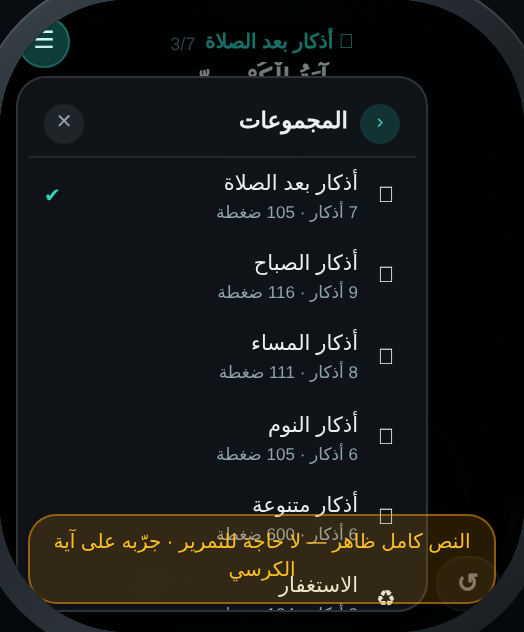
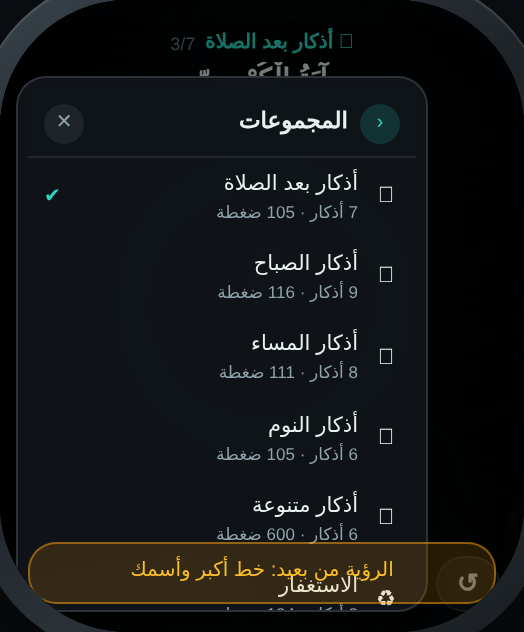
☰ زر واحد للقائمة (أسفل الشاشة) + إصلاح أسماء شاشات سير اللقطات + لقطات محدَّثة

Changed region(s): [[0.0305, 0.8117, 0.9466, 0.932], [0.0305, 0.0301, 0.1527, 0.1203]]

diff --git a/simulator.html b/simulator.html
@@ -86,6 +86,7 @@
   .wbtn.prom{background:#0f3f3c;border-color:#1c6b63;color:#c8f7f0}
   .wbtn.icon{flex:0 0 auto;width:32px;font-size:13px;padding:6px 0;line-height:1}
   .wbtn.icon.on{background:#0f3f3c;border-color:#1c6b63;color:#c8f7f0;box-shadow:0 0 10px rgba(45,212,191,.35)}
+  .wbtn.on{background:#0f3f3c;border-color:#1c6b63;color:#c8f7f0}   /* ☰ القائمة وهي مفتوحة */
 
   /* قائمة المجموعات */
   .setslist{flex:1;overflow-y:auto;display:flex;flex-direction:column;gap:6px;padding-inline-end:2px}
@@ -215,19 +216,18 @@
   .screen.bg-on .bgdim{opacity:1}
   /* ═══════════════════════════════════════════════════════════════════
      🔒 تثبيت الطبقات فوق الخلفيات — دون لمس `position`!
-     كان هنا سطر `.view,.aod,...,.mbtn,.promptbar{position:relative}` يُبطِل
+     كان هنا سطر `.view,.aod,...,.promptbar{position:relative}` يُبطِل
      `position:absolute` لكل هذه العناصر ⇒ الشاشة لا تملأ الساعة، والتذييل
      والأزرار والعدّاد تتبع ارتفاع النص: تختفي مع آية الكرسي وترتفع مع
      الذكر القصير. أُعيد تثبيت موضع كل عنصر هنا كأولوية أخيرة.
      ═══════════════════════════════════════════════════════════════════ */
   .view,.aod,.flash,.done,.mscrim{position:absolute;inset:0}
-  .menu{position:absolute;left:8px;top:38px}
-  .mbtn{position:absolute;top:8px;left:9px}
+  .menu{position:absolute;left:8px;top:38px}   /* تظهر فوق الشاشة عند فتحها من زر الأسفل */
   .promptbar{position:relative;margin:0 0 6px}   /* ⬆ أعلى القراءة — داخل التدفق */
   .badge{position:absolute;top:6px;right:6px;bottom:auto;left:auto}
   .view{z-index:2}
   .view.read-mode .vhead{padding-inline-start:56px}   /* مكان العدّاد في الزاوية اليمنى */
-  .menu,.promptbar,.mbtn,.badge{z-index:12}
+  .menu,.promptbar,.badge{z-index:12}
   .aod,.flash{z-index:9}
   .done{z-index:14}
 
@@ -238,12 +238,7 @@
[2 lines of base64/hex data omitted]
 
-  /* ═════════ القائمة المنسدلة ☰ (الزاوية العلوية اليسرى) ═════════ */
-  .mbtn{position:absolute;top:8px;left:9px;z-index:11;width:26px;height:26px;border-radius:50%;
-    background:rgba(20,26,31,.85);border:1px solid rgba(255,255,255,.14);
-    display:flex;align-items:center;justify-content:center;font-size:12px;color:#dfe7ec;cursor:pointer}
-  .mbtn:active{background:rgba(45,212,191,.25)}
-  .mbtn.on{background:#0f3f3c;border-color:#1c6b63;color:#c8f7f0}
+  /* ═════════ القائمة ☰ — تُفتح من زر «☰ القائمة» أسفل الشاشة ═════════ */
 
   .mscrim{position:absolute;inset:0;background:rgba(0,0,0,.45);z-index:9;display:none}
   .mscrim.on{display:block}
@@ -401,7 +396,6 @@
               </div>
             </div><!-- /badge -->
 
-            <div class="mbtn" id="menuBtn" title="القائمة والإعدادات">☰</div>
             <div class="mscrim" id="mscrim"></div>
             <div class="menu" id="menu"></div>
 
@@ -557,7 +551,7 @@
         <div class="act" id="actPrompt">📜 تشغيل التلقين<br><span class="k">تمرير تلقائي</span></div>
         <div class="act" id="actDist">👁 رؤية من بعيد<br><span class="k">خط أكبر وأسمك</span></div>
         <div class="act" id="actTry">🧪 جرّب التلقين<br><span class="k">على آية الكرسي</span></div>
-        <div class="act" id="actMenu">☰ القائمة المنسدلة<br><span class="k">كل الإعدادات</span></div>
+        <div class="act" id="actMenu">☰ القائمة (أسفل الشاشة)<br><span class="k">كل الإعدادات</span></div>
         <div class="act" id="actBg">🖼 خلفية المجموعة<br><span class="k">تفعيل · إيقاف</span></div>
         <div class="act" id="actWidgetCfg">🧩 إعدادات الودجت<br><span class="k">النمط · الزر · الاسم</span></div>
       </div>
@@ -766,7 +760,7 @@ const el = {
   rdTitle:$('rdTitle'), rdText:$('rdText'), rdScroll:$('rdScroll'), badge:$('badge'),
   bProg:$('bProg'), bNum:$('bNum'), bTarget:$('bTarget'),
   ringLayout:$('ringLayout'), readLayout:$('readLayout'), posTag:$('posTag'),
-  menu:$('menu'), mscrim:$('mscrim'), menuBtn:$('menuBtn'), screen2:$('screen'),
+  menu:$('menu'), mscrim:$('mscrim'), btnMenu:$('btnMenu'), screen2:$('screen'),
   promptBar:$('promptBar'), pbPlay:$('pbPlay'), pbProg:$('pbProg'), pbLabel:$('pbLabel')
 };
 const set  = () => SETS[S.si];
@@ -1170,7 +1164,7 @@ function toggleDist(){
 }
 
 /* ═══════════════════════════════════════════════════════════
-   ☰ القائمة المنسدلة — كل الخيارات والإعدادات وإعدادات الودجت
+   ☰ القائمة — كل الخيارات والإعدادات وإعدادات الودجت (تُفتح من زر أسفل الشاشة)
    زر واحد في الزاوية العلوية اليسرى · صفوف مبنيّة من مصفوفة واحدة
    ═══════════════════════════════════════════════════════════ */
 const FSL = ['صغير','متوسط','كبير','ضخم'];
@@ -1401,7 +1395,7 @@ function menuAct(action){
 function openMenu(page){
   S.menu = true; S.page = page || 'main';
   el.menu.classList.add('on'); el.mscrim.classList.add('on');
-  el.menuBtn.classList.add('on');
+  el.btnMenu.classList.add('on');
   renderMenu();
   applyLayout();                       // يخفي الشريط والعدّاد تحت القائمة
   logEvent('☰ فُتحت القائمة' + (page && page!=='main' ? ' — '+(page==='sets'?'المجموعات':'إعدادات الودجت') : ''));
@@ -1409,7 +1403,7 @@ function openMenu(page){
 function closeMenu(){
   S.menu = false;
   el.menu.classList.remove('on'); el.mscrim.classList.remove('on');
-  el.menuBtn.classList.remove('on');
+  el.btnMenu.classList.remove('on');
   applyLayout();                       // يعيد الشريط والعدّاد بعد إغلاق القائمة
 }
 function toggleMenu(){ S.menu ? closeMenu() : openMenu('main'); }
@@ -1537,7 +1531,6 @@ bind('stackPlus', ()=>{ if (S.aod){ toast('ارفع رسغك أولًا'); retur
 bind('pbPlay',  togglePause);
 bind('pbSpeed', cycleWpm);
 bind('pbDist',  toggleDist);
-bind('menuBtn', toggleMenu);
 bind('btnMenu', ()=> openMenu('main'));
 bind('btnMotion', simulateMotion);      // ✋ محاكاة نكزة رسغ (وضع العدّ بالحركة)
 bind('btnCrown',  crownTick);           // 🎡 محاكاة نقرة تاج (وضع العدّ بالتاج)
@@ -1601,7 +1594,7 @@ logEvent('🌙 فتح التطبيق — الجلسة الممتدة نشطة');
 logEvent('اختر مجموعة من «المجموعات»، أو ابدأ الإيماءة بمفتاح المسافة');
 logEvent('جرّب وضع القراءة 📖 — نص الذكر كاملًا وعدّاد صغير في الزاوية (مفتاح F)', 'ok');
 logEvent('والتلقين 📜 — تمرير تلقائي بوتيرة قراءة (مفتاح T) · الرؤية من بعيد 👁 (مفتاح D)', 'ok');
-logEvent('☰ القائمة المنسدلة في الزاوية العلوية اليسرى — كل الإعدادات والمجموعات وإعدادات الودجت (مفتاح M)', 'ok');
+logEvent('☰ القائمة من زر «القائمة» أسفل الشاشة — كل الإعدادات والمجموعات وإعدادات الودجت (مفتاح M)', 'ok');
 logEvent('🖼 خلفية خافتة متناسقة لكل مجموعة — بدّلها من القائمة ← العرض', 'ok');
 renderSets(); render(); applyLayout(); updatePromptUI(); renderMenu();
 </script>

diff --git a/CounterView.swift b/CounterView.swift
@@ -18,7 +18,7 @@ struct CounterView: View {
     /// شاشة الترحيب: تظهر مرّة واحدة، ويمكن إعادتها من القائمة
     @AppStorage(SharedKeys.onboarded) private var onboarded = false
     @State private var showOnboarding = false
-    @State private var showPanel = false        // ☰ القائمة المنسدلة في الزاوية اليسرى
+    @State private var showPanel = false        // ☰ القائمة (زرها في صف الأدوات أسفل)
     @State private var showFullText = false
 
     @Environment(\.isLuminanceReduced) private var luminanceReduced
@@ -87,7 +87,7 @@ struct CounterView: View {
                     .animation(.easeInOut(duration: 0.2), value: model.toastMessage)
                 }
 
-                // ☰ القائمة المنسدلة — غير معطّلة لأي تفاعل في الأعلى
+                // ☰ القائمة (زرها أسفل) — طبقة فوق الشاشة لا تعطّل تفاعل الأعلى
                 if showPanel {
                     OptionsPanel(model: model, session: session) {
                         withAnimation(.easeInOut(duration: 0.15)) { showPanel = false }
@@ -106,17 +106,6 @@ struct CounterView: View {
             .animation(.easeInOut(duration: 0.25), value: model.nightMode)
             .toolbar {
                 if !luminanceReduced && model.summary == nil {
-                    // ☰ في الزاوية العلوية اليسرى
-                    // (في RTL يكون .topBarTrailing هو اليسار فعليًا)
-                    ToolbarItem(placement: .topBarTrailing) {
-                        Button { withAnimation(.easeOut(duration: 0.15)) { showPanel.toggle() } } label: {
-                            Image(systemName: "line.3.horizontal")
-                                .font(.system(size: 13, weight: .semibold))
-                                .foregroundStyle(showPanel ? .teal : .white)
-                        }
-                        .accessibilityLabel("القائمة والإعدادات")
-                    }
-
                     if model.readingMode {
                         // 👁 الرؤية من بعيد — في أعلى الشاشة مع التلقين (كان أسفلها)
                         ToolbarItem(placement: .topBarLeading) {
@@ -377,7 +366,7 @@ struct CounterView: View {
 
     /// صف الأزرار — متاح في الوضعين (العدّ والقراءة) حتى لا يبقى المستخدم بلا أدوات
     private var controlRow: some View {
-        HStack(spacing: 6) {
+        HStack(spacing: 4) {          // ٤ بدل ٦: بعد إضافة زر ☰ صار الصف خمسة أزرار
 
             // − تراجع (لتصحيح ضغطة خاطئة) — الوضع العادي فقط
             if !model.readingMode {
@@ -419,6 +408,16 @@ struct CounterView: View {
                 .buttonStyle(.bordered).tint(.gray)
                 .accessibilityLabel("بدء التلقين")
             }
+
+            // ☰ القائمة — زر واحد فقط، هنا في الأسفل (نُقل من الزاوية العلوية
+            //    حتى لا يكون للقائمة الواحدة زرّان). في RTL يظهر في أقصى اليسار.
+            Button { withAnimation(.easeOut(duration: 0.15)) { showPanel.toggle() } } label: {
+                Image(systemName: "line.3.horizontal")
+                    .font(.system(size: 11, weight: .semibold))
+            }
+            .buttonStyle(.bordered)
+            .tint(showPanel ? .teal : .gray)
+            .accessibilityLabel("القائمة والإعدادات")
         }
         .frame(height: 30)                       // 📐 ثابت: أيقونات مختلفة الأطوال
     }

diff --git a/OptionsPanel.swift b/OptionsPanel.swift
@@ -1,12 +1,12 @@
 //
 //  OptionsPanel.swift
-//  سبحة — القائمة المنسدلة في الزاوية العلوية اليسرى
+//  سبحة — القائمة المنسدلة ☰ (تُفتح من زر واحد أسفل الشاشة في صف الأدوات)
 //
 //  تحتوي كل شيء: العرض · التلقين · المجموعات · إعدادات الودجت · النظام.
 //  تظهر كطبقة فوق شاشة العدّ، بثلاث صفحات (local pages) بدل قوائم متداخلة.
 //
 //  ⚠ ملاحظة RTL: في واجهة عربية يكون `.topTrailing` هو **اليسار** فعليًا،
-//      ولذلك نثبّت القائمة والزر عليه — فيظهران في الزاوية العلوية اليسرى كما طلبت.
+//      ولذلك نثبّت القائمة_عليه، والزر في صف الأدوات أسفل الشاشة (زر واحد لا اثنان).
 //
 
 import SwiftUI

diff --git a/DebugShots.swift b/DebugShots.swift
@@ -24,8 +24,13 @@ import Foundation
 
 enum SabhaShot {
 
-    /// اسم الشاشة المطلوبة (يأتي من معامل الإطلاق `-sabhaScreen <اسم>`)
-    static var screen: String? { UserDefaults.standard.string(forKey: "sabhaScreen") }
+    /// اسم الشاشة المطلوبة (يأتي من معامل الإطلاق `-sabhaScreen <اسم>`).
+    /// نقبل «counter» و«01-counter» معًا: السير يسمّي الملف بالرقم، والمستخدم
+    /// قد يكتب الأمر يدويًا بلا رقم — فلا يهم أيّهما وصل.
+    static var screen: String? {
+        guard let raw = UserDefaults.standard.string(forKey: "sabhaScreen") else { return nil }
+        return raw.contains("-") ? String(raw.split(separator: "-").last ?? "") : raw
+    }
 
     static func isActive(_ name: String) -> Bool { screen == name }
 

diff --git a/tests/swift-api-check.py b/tests/swift-api-check.py
@@ -405,11 +405,50 @@ def check_debug_shots() -> bool:
     return ok
 
 
+def check_single_menu_button() -> bool:
+    """⑫ زر واحد للقائمة (لا ازدواج).
+
+    كان للقائمة زرّان: «☰» أعلى اليسار + «☰ القائمة» أسفل الشاشة — وهو تكرار
+    طلبه المستخدم إزالته. وُحّدا في زر واحد أسفل الشاشة (في التطبيق والمحاكي).
+    هذا الفحص يمنع عودة الازدواج في أي تعديل لاحق."""
+    print('⑫ زر واحد للقائمة (لا ازدواج)')
+    ok = True
+
+    cv = (ROOT / 'CounterView.swift').read_text(encoding='utf-8')
+    icons = len(re.findall(r'line\.3\.horizontal', cv))
+    if icons != 1:
+        ok = False
+        print(f'   ✘ CounterView.swift: عدد أيقونات ☰ = {icons} (المطلوب ١ فقط)')
+    # لا يجوز أن تحمل ☰ في شريط الأدوات العلوي (لكن يُسمح بعناصر أخرى هناك)
+    for m in re.finditer(r'ToolbarItem\(placement: \.topBarTrailing\)', cv):
+        if 'line.3.horizontal' in cv[m.start():m.start() + 400]:
+            ok = False
+            print('   ✘ CounterView.swift: يوجد ☰ في شريط الأدوات العلوي (يجب أن تكون أسفل الشاشة)')
+    # ويجب أن تكون داخل صف الأدوات السفلي
+    if cv.find('private var controlRow') == -1 or cv.find('line.3.horizontal') < cv.find('private var controlRow'):
+        ok = False
+        print('   ✘ CounterView.swift: ☰ ليست داخل صف الأدوات السفلي')
+
+    sim = (ROOT / 'simulator.html').read_text(encoding='utf-8')
+    if 'id="menuBtn"' in sim:
+        ok = False
+        print('   ✘ simulator.html: زر ☰ العلوي (menuBtn) ما زال موجودًا')
+    n_menu = sim.count('id="btnMenu"')
+    if n_menu != 1:
+        ok = False
+        print(f'   ✘ simulator.html: عدد أزرار «☰ القائمة» = {n_menu} (المطلوب ١)')
+
+    if ok:
+        print('   ✔ زر واحد فقط: «☰ القائمة» أسفل الشاشة — في التطبيق والمحاكي')
+    return ok
+
+
 if __name__ == '__main__':
     ok_all = (check_apis() and check_sources() and check_dhikr_parity()
               and check_model_members() and check_risky_apis()
               and check_assets_and_sources() and check_app_group()
-              and check_scheme_runnable() and check_debug_shots())
+              and check_scheme_runnable() and check_debug_shots()
+              and check_single_menu_button())
     print()
     print('📊 النتيجة:', '✔ كل الفحوصات سليمة' if ok_all else '❌ توجد مشاكل أعلاه')
     sys.exit(0 if ok_all else 1)

diff --git a/README.md b/README.md
@@ -35,7 +35,7 @@ TasbihWatch/
 ├── DebugShots.swift    ← 📸 مدخل لقطات المتجر (يعمل في نسخة التطوير فقط — يُحذف من نسخة المتجر)
 ├── CounterView.swift   ← شاشة العدّ + الإيماءة + الانتقال السلس + رسالة الإغلاق ⭐
 ├── ReadingView.swift   ← وضع القراءة: نص كامل + عدّاد في الزاوية + التلقين + الرؤية من بعيد ⭐
-├── OptionsPanel.swift  ← ☰ القائمة المنسدلة (كل الإعدادات + المجموعات + إعدادات الودجت) ⭐
+├── OptionsPanel.swift  ← ☰ القائمة (زرها أسفل الشاشة): كل الإعدادات + المجموعات + إعدادات الودجت ⭐
 ├── SetBackgrounds.swift ← خلفيات المجموعات (خافتة · متناسقة · تتبدّل تلقائيًا) ⭐
 ├── Backgrounds/        ← الصور النهائية + raw/ + preview.html (معاينة الست خلفيات)
 ├── tests/              ← run-all.sh · jsdom-suite · browser-suite · swift-api-check · workflow-check
@@ -232,11 +232,13 @@ DhikrSet(
 
 | الموضع | العنصر |
 |---|---|
-| الزاوية العلوية اليسرى | ☰ القائمة المنسدلة |
 | الزاوية العلوية اليمنى | 🕐 **العدّاد** (حلقة التقدّم + الرقم) — نقرُه يعدّ ذكرًا |
 | أعلى الشاشة فوق اسم الذكر | 🎛 **شريط التلقين والرؤية من بعيد**: ▶ تشغيل/إيقاف مؤقت · شريط التقدّم · «متوسط ٦٠» · ⏩ السرعة · 👁 الرؤية من بعيد |
 | ثم | اسم الذكر الكامل + نصّه (يُمرَّر داخليًا) |
-| أسفل الشاشة | ↺ تصفير · ☰ القائمة (زرّا 👁 و 📜 يظهران هنا في وضع العدّ فقط) |
+| أسفل الشاشة | **☰ القائمة** · ↺ تصفير · 👁 الرؤية من بعيد · 📜 التلقين (وزرّا 👁 و 📜 يظهران هنا في وضع العدّ فقط) |
+
+> 🔄 **توحيد الزرّين (بأمر المستخدم):** كانت القائمة تُفتح من زرّين — ☰ صغيرة في الزاوية العلوية اليسرى، و«☰ القائمة» أسفل الشاشة.
+> الآن **زر واحد فقط**: «☰ القائمة» في صف الأدوات أسفل الشاشة (أقصى اليسار)، وخلت الزاوية العلوية اليسرى. مُطبَّق في التطبيق والمحاكي معًا.
 
 **لماذا؟** الشريط في الأعلى يفتح مجالًا للقراءة، والعدّاد في الزاوية العلوية اليمنى بعيد عن النص وعن الإبهام.
 يُبدَّل العدّاد إلى الزاوية العلوية اليسرى من: **☰ القائمة ← العرض ← «العدّاد في يمين الشاشة»** (مفعّل افتراضيًا)، ويُخفى الشريط والعدّاد تلقائيًا والقائمة مفتوحة.
@@ -327,7 +329,7 @@ DhikrSet(
 3. سبّح: كل نكزة رسغ مقصودة = ذكر + **اهتزاز تأكيد** (تعرف أنها سُجّلت بلا نظر).
 4. في وضع السكون تظهر شاشة مبسّطة: **رقم كبير** + سطر يوضّح «العدّ بالحركة يعمل الآن» + نقطة نابضة مع كل حركة مكتشفة.
 
-**اللقطات:** `screenshots/07-وضع-السكون-العد-بالحركة.png` (الشاشة خافتة والعدّ شغّال) · `08-قائمة-العد-بلا-نظر.png` · `09-العد-بالحركة.png` — وجرّبها بنفسك: اختر «حركة» من القائمة ثم اضغط **✋** أسفل الشاشة (يحاكي نكزة رسغ)، واضغط **⌚ الحالة** لتجربة السكون.
+**اللقطات:** `screenshots/07-وضع-السكون-العد-بالحركة.png` (الشاشة خافتة والعدّ شغّال) · `08-قائمة-العد-بلا-نظر.png` · `09-العد-بالحركة.png` — وتُعاد **كل** اللقطات الاثنتَي عشرة تلقائيًا في كل تشغيل لفحص المتصفح (`node tests/browser-suite.mjs`). وجرّبها بنفسك: اختر «حركة» من القائمة ثم اضغط **✋** أسفل الشاشة (يحاكي نكزة رسغ)، واضغط **⌚ الحالة** لتجربة السكون.
 
 ### أين يعمل الكود؟
 - `MotionCounter.swift` (جديد): يقرأ `CMDeviceMotion` بـ ٢٥ قراءة/ثانية، يحسب قوة الحركة = معدّل الدوران + ٥× التسارع، ويكتشف «النكزة» بعتبة + فاصل زمني + **hysteresis** (لا يعدّ الحركة الواحدة مرتين، ولا يعدّ حتى تعود الهدوء).
@@ -509,9 +511,10 @@ SetBackgroundView(set: model.set, isOn: model.backgroundOn, opacity: model.backg
 
 ---
 
-## ☰ القائمة المنسدلة (الزاوية العلوية اليسرى)
+## ☰ القائمة (زر واحد أسفل الشاشة)
 
-زر واحد في الزاوية العلوية اليسرى يحتوي **كل شيء**، بثلاث صفحات (بدل قوائم متداخلة مربكة على شاشة صغيرة):
+زر واحد في **صف الأدوات أسفل الشاشة (أقصى اليسار)** يحتوي **كل شيء**، بثلاث صفحات (بدل قوائم متداخلة مربكة على شاشة صغيرة).
+> سبق أن كان للقائمة زرّان (☰ أعلى اليسار + «☰ القائمة» أسفل) فوحّدتهما في زر واحد بناءً على ملاحظتك — والفحص ⑫ يمنع عودة الازدواج:
 
 ### الصفحة الرئيسية
 | القسم | الخيارات |
@@ -537,7 +540,7 @@ SetBackgroundView(set: model.set, isOn: model.backgroundOn, opacity: model.backg
 - **صفحة المجموعات في القائمة** أسرع من أي مكان آخر: اختيار المجموعة يُغلق القائمة ويعرض شاشة العدّ فورًا.
 - المفاتيح السريعة في المحاكي: **M** للقائمة · **Esc** للإغلاق.
 
-> 📌 **ملاحظة RTL مهمة**: في واجهة عربية يكون `.topBarTrailing` و `.topTrailing` هما **اليسار** فعليًا، ولذلك ثبّتنا الزرّ واللوحة عليهما لتصلا إلى الزاوية العلوية اليسرى كما طلبت تمامًا.
+> 📌 **ملاحظة RTL مهمة**: في واجهة عربية تنعكس الجِهات — ولهذا يظهر زر «☰ القائمة» في **أقصى يسار** الصف السفلي (وهو آخر زر في الترتيب)، ويُعاد العدّاد إلى اليمين عبر `.topLeading`.
 
 ---
 
